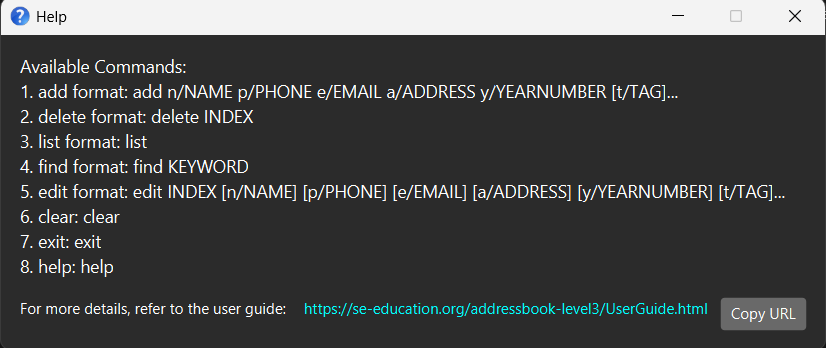
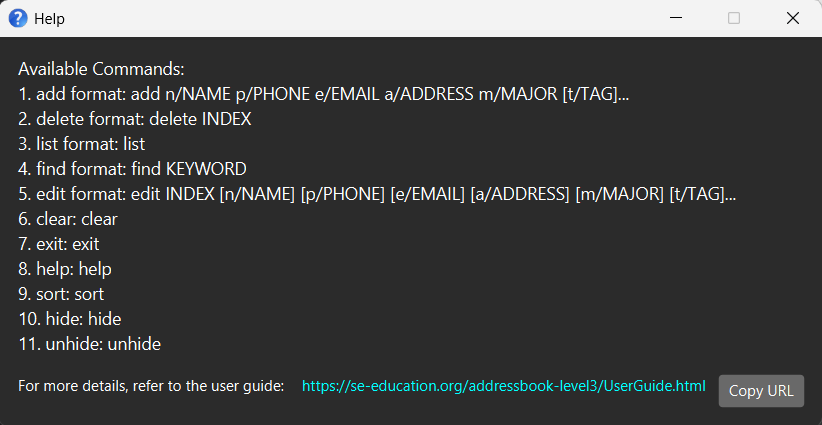
Update UserGuide.md

diff --git a/docs/UserGuide.md b/docs/UserGuide.md
@@ -15,12 +15,14 @@ CollabSync is a **desktop app for university students to help manage contacts sw
     - [Help](#feature-1-help)
     - [Adding a student](#feature-2-adding-a-student)
     - [Listing all students](#feature-3-listing-everyone-in-contact)
-    - [Editing a student](#feature-4-editing-a-contact)
-    - [Finding students](#feature-5-find-student)
-    - [Deleting a student](#feature-6-delete-a-contact)
-    - [Clearing all entries](#feature-7-clear)
-    - [Data Management](#feature-8-data-management)
-    - [Exit](#feature-9-exit)
+    - [Hide information](#feature-4--hide-information)
+    - [Unhide information](#feature-5--unhide-information)
+    - [Editing a student's contact](#feature-6--editing-a-contact)
+    - [Finding a student](#feature-7--find-student)
+    - [Deleting a student's contact](#feature-8--delete-a-contact)
+    - [Clearing all contacts](#feature-9--clear)
+    - [Data management](#feature-10--data-management)
+    - [Exit](#feature-11--exit)
 3. [FAQ](#faq)
 4. [Known Issues](#known-issues)
 5. [Command Summary](#command-summary)
@@ -123,6 +125,7 @@ CollabSync is a **desktop app for university students to help manage contacts sw
 
 **Note:** You do not need to enter anything else behind `list`
 </box>
+
 -----------------------------------------------------------------------------------------------------------------------
 
 # Feature #4 : Hide Information
